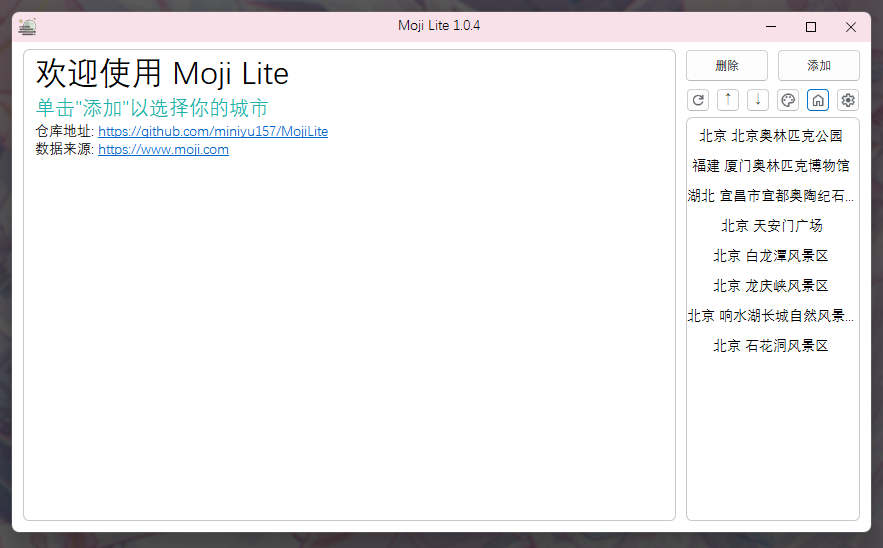
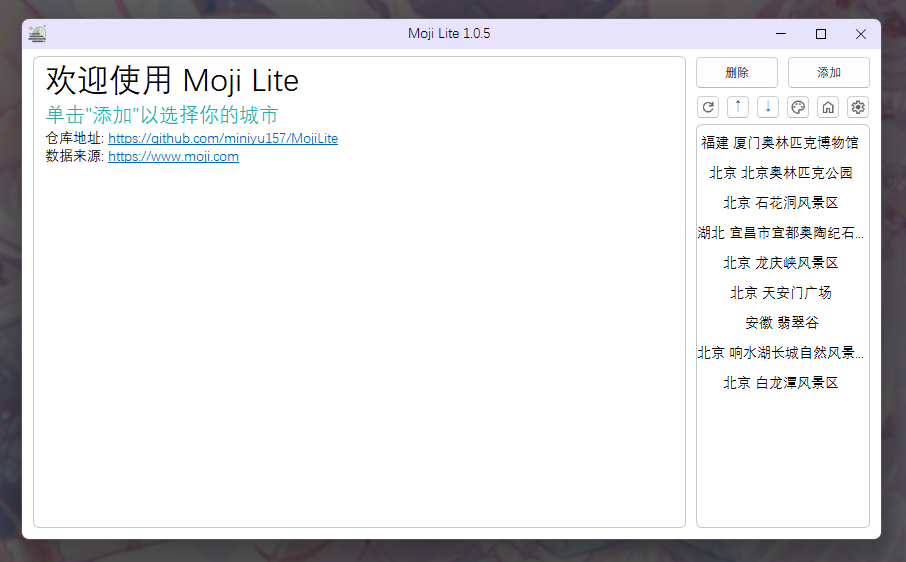
1.0.5 版本更新，详情请查看 CHANGELOG.md

Changed region(s): [[0.0, 0.0, 1.0, 1.0]]

diff --git a/Moji Lite/Setting.Designer.cs b/Moji Lite/Setting.Designer.cs
@@ -36,12 +36,19 @@ namespace Moji_Lite
             removeCacheLinkLabel = new LinkLabel();
             showVerLabel = new Label();
             githubLinkLabel = new LinkLabel();
+            panel1 = new Panel();
+            highlightToday_False_Radiu = new RadioButton();
+            highlightToday_True_Radiu = new RadioButton();
+            label2 = new Label();
+            panel2 = new Panel();
+            panel1.SuspendLayout();
+            panel2.SuspendLayout();
             SuspendLayout();
             // 
             // label1
             // 
             label1.AutoSize = true;
-            label1.Location = new Point(28, 49);
+            label1.Location = new Point(28, 51);
             label1.Name = "label1";
             label1.Size = new Size(79, 13);
             label1.TabIndex = 1;
@@ -50,7 +57,7 @@ namespace Moji_Lite
             // listLayout_Single_Radiu
             // 
             listLayout_Single_Radiu.AutoSize = true;
-            listLayout_Single_Radiu.Location = new Point(113, 47);
+            listLayout_Single_Radiu.Location = new Point(0, 0);
             listLayout_Single_Radiu.Name = "listLayout_Single_Radiu";
             listLayout_Single_Radiu.Size = new Size(49, 17);
             listLayout_Single_Radiu.TabIndex = 3;
@@ -61,7 +68,7 @@ namespace Moji_Lite
             // listLayout_Two_Radiu
             // 
             listLayout_Two_Radiu.AutoSize = true;
-            listLayout_Two_Radiu.Location = new Point(168, 47);
+            listLayout_Two_Radiu.Location = new Point(55, 0);
             listLayout_Two_Radiu.Name = "listLayout_Two_Radiu";
             listLayout_Two_Radiu.Size = new Size(49, 17);
             listLayout_Two_Radiu.TabIndex = 4;
@@ -104,17 +111,67 @@ namespace Moji_Lite
             githubLinkLabel.TabStop = true;
             githubLinkLabel.Text = "Github";
             // 
+            // panel1
+            // 
+            panel1.Controls.Add(highlightToday_False_Radiu);
+            panel1.Controls.Add(highlightToday_True_Radiu);
+            panel1.Location = new Point(113, 81);
+            panel1.Name = "panel1";
+            panel1.Size = new Size(198, 26);
+            panel1.TabIndex = 14;
+            // 
+            // highlightToday_False_Radiu
+            // 
+            highlightToday_False_Radiu.AutoSize = true;
+            highlightToday_False_Radiu.Location = new Point(55, 0);
+            highlightToday_False_Radiu.Name = "highlightToday_False_Radiu";
+            highlightToday_False_Radiu.Size = new Size(49, 17);
+            highlightToday_False_Radiu.TabIndex = 16;
+            highlightToday_False_Radiu.TabStop = true;
+            highlightToday_False_Radiu.Text = "不要";
+            highlightToday_False_Radiu.UseVisualStyleBackColor = true;
+            // 
+            // highlightToday_True_Radiu
+            // 
+            highlightToday_True_Radiu.AutoSize = true;
+            highlightToday_True_Radiu.Location = new Point(0, 0);
+            highlightToday_True_Radiu.Name = "highlightToday_True_Radiu";
+            highlightToday_True_Radiu.Size = new Size(49, 17);
+            highlightToday_True_Radiu.TabIndex = 15;
+            highlightToday_True_Radiu.TabStop = true;
+            highlightToday_True_Radiu.Text = "好的";
+            highlightToday_True_Radiu.UseVisualStyleBackColor = true;
+            // 
+            // label2
+            // 
+            label2.AutoSize = true;
+            label2.Location = new Point(28, 83);
+            label2.Name = "label2";
+            label2.Size = new Size(79, 13);
+            label2.TabIndex = 16;
+            label2.Text = "高亮当前日期";
+            // 
+            // panel2
+            // 
+            panel2.Controls.Add(listLayout_Single_Radiu);
+            panel2.Controls.Add(listLayout_Two_Radiu);
+            panel2.Location = new Point(113, 49);
+            panel2.Name = "panel2";
+            panel2.Size = new Size(198, 26);
+            panel2.TabIndex = 18;
+            // 
             // Setting
             // 
             AutoScaleDimensions = new SizeF(7F, 13F);
             AutoScaleMode = AutoScaleMode.Font;
             BackColor = Color.White;
             ClientSize = new Size(443, 380);
+            Controls.Add(panel2);
+            Controls.Add(label2);
+            Controls.Add(panel1);
             Controls.Add(githubLinkLabel);
             Controls.Add(showVerLabel);
             Controls.Add(removeCacheLinkLabel);
-            Controls.Add(listLayout_Two_Radiu);
-            Controls.Add(listLayout_Single_Radiu);
             Controls.Add(label1);
             Font = new Font("等线", 9F);
             Margin = new Padding(3, 2, 3, 2);
@@ -128,6 +185,11 @@ namespace Moji_Lite
             TitleButtons = TitleButtonStyle.CloseOnly;
             TitleFont = new Font("等线", 10.5F, FontStyle.Regular, GraphicsUnit.Point, 134);
             TitleTextAlign = HorizontalAlignment.Center;
+            TitleTextOffset = new Point(0, 1);
+            panel1.ResumeLayout(false);
+            panel1.PerformLayout();
+            panel2.ResumeLayout(false);
+            panel2.PerformLayout();
             ResumeLayout(false);
             PerformLayout();
         }
@@ -140,5 +202,10 @@ namespace Moji_Lite
         private LinkLabel removeCacheLinkLabel;
         private Label showVerLabel;
         private LinkLabel githubLinkLabel;
+        private Panel panel1;
+        private RadioButton highlightToday_False_Radiu;
+        private RadioButton highlightToday_True_Radiu;
+        private Label label2;
+        private Panel panel2;
     }
 }

diff --git a/Moji Lite/Setting.cs b/Moji Lite/Setting.cs
@@ -10,24 +10,43 @@ namespace Moji_Lite
         {
             InitializeComponent();
 
-            FormClosed += Setting_FormClosed;
-            removeCacheLinkLabel.LinkClicked += RemoveCacheLinkLabel_LinkClicked;
-            githubLinkLabel.LinkClicked += GithubLinkLabel_LinkClicked;
-
             mainWindow = parentForm;
             showVerLabel.Text = $"Version: {MainWindow.GetProductVersion()}";
 
-            switch (mainWindow.ListLayout)
-            {
-                case "two-column":
-                    listLayout_Two_Radiu.Checked = true;
-                    listLayout_Single_Radiu.Checked = false;
-                    break;
+            //功能事件
+            removeCacheLinkLabel.LinkClicked += RemoveCacheLinkLabel_LinkClicked;
+            githubLinkLabel.LinkClicked += GithubLinkLabel_LinkClicked;
 
-                case "single-column":
-                    listLayout_Two_Radiu.Checked = false;
-                    listLayout_Single_Radiu.Checked = true;
-                    break;
+            InitializeConfig(
+                listLayout_Two_Radiu,
+                listLayout_Single_Radiu,
+                "two-column",
+                "single-column",
+                mainWindow.ListLayout,
+                value => mainWindow.ListLayout = value
+            );
+
+            InitializeConfig(
+                highlightToday_True_Radiu,
+                highlightToday_False_Radiu,
+                "true",
+                "false",
+                mainWindow.HighlightToday,
+                value => mainWindow.HighlightToday = value
+            );
+        }
+
+        private void InitializeConfig(RadioButton trueRadio, RadioButton falseRadio, string trueValue, string falseValue, string? getValue, Action<string> setValue)
+        {
+            trueRadio.Checked = getValue == trueValue;
+            falseRadio.Checked = getValue == falseValue;
+            trueRadio.CheckedChanged += (sender, e) => RadioButton_CheckedChanged(trueRadio, trueValue, falseValue, setValue);
+            falseRadio.CheckedChanged += (sender, e) => RadioButton_CheckedChanged(trueRadio, trueValue, falseValue, setValue);
+
+            void RadioButton_CheckedChanged(RadioButton trueRadio, string trueValue, string falseValue, Action<string> setValue)
+            {
+                setValue(trueRadio.Checked ? trueValue : falseValue);
+                mainWindow.refreshBut.PerformClick();
             }
         }
 
@@ -47,11 +66,6 @@ namespace Moji_Lite
             }
 
             mainWindow.ShowMessage("清除缓存完成。", Application.ProductName);
-        }
-
-        private void Setting_FormClosed(object? sender, FormClosedEventArgs e)
-        {
-            mainWindow.ListLayout = listLayout_Single_Radiu.Checked ? "single-column" : "two-column";
         }
     }
 }

diff --git a/Moji Lite/AddCity.cs b/Moji Lite/AddCity.cs
@@ -36,32 +36,24 @@ namespace Moji_Lite
         {
             if (e.Index < 0) return;
 
-            //清除背景
             e.DrawBackground();
 
-            //设置绘制区域
             var itemText = citiesListBox.Items[e.Index].ToString();
             Font? font = e.Font;
             if (font != null)
             {
                 var textSize = e.Graphics.MeasureString(itemText, font);
+                var textPos = LayoutUtilities.CalculateAlignedPosition(e.Bounds, textSize, ContentAlignment.MiddleCenter);
 
-                //计算文本的居中位置
-                var textX = e.Bounds.X + (e.Bounds.Width - textSize.Width) / 2;
-                var textY = e.Bounds.Y + (e.Bounds.Height - textSize.Height) / 2;
-
-                //如果是选中项，设置背景色为蓝色，前景色为绿色
                 if ((e.State & DrawItemState.Selected) == DrawItemState.Selected)
                 {
-                    e.Graphics.FillRectangle(new SolidBrush(Color.FromArgb(220, 220, 220)), e.Bounds); //设置背景色
-                    e.Graphics.DrawString(itemText, font, Brushes.Black, textX, textY); //设置前景色
+                    e.Graphics.FillRectangle(new SolidBrush(Color.FromArgb(220, 220, 220)), e.Bounds);
+                    e.Graphics.DrawString(itemText, font, Brushes.Black, textPos.X, textPos.Y);
                 }
                 else
                 {
-                    e.Graphics.DrawString(itemText, font, Brushes.Black, textX, textY); //默认前景色
+                    e.Graphics.DrawString(itemText, font, Brushes.Black, textPos.X, textPos.Y);
                 }
-
-                //绘制焦点矩形（如果需要）
                 e.DrawFocusRectangle();
             }
         }

diff --git a/Moji Lite/MainWindow.Designer.cs b/Moji Lite/MainWindow.Designer.cs
@@ -198,6 +198,7 @@ namespace Moji_Lite
             TitleBoxBackColor = Color.Linen;
             TitleFont = new Font("等线", 10.5F, FontStyle.Regular, GraphicsUnit.Point, 134);
             TitleTextAlign = HorizontalAlignment.Center;
+            TitleTextOffset = new Point(0, 1);
             panel1.ResumeLayout(false);
             panel2.ResumeLayout(false);
             panel3.ResumeLayout(false);
@@ -216,7 +217,7 @@ namespace Moji_Lite
         internal Button upItemBut;
         private Panel panel3;
         private Button themeBut;
-        private Button refreshBut;
+        internal Button refreshBut;
         private Button homeBut;
         private Button settingBut;
     }

diff --git a/README.md b/README.md
@@ -23,3 +23,5 @@
 ![weather](Screenshot/weather.png)
 
 ![addcity](Screenshot/addcity.png)
+
+![setting](Screenshot/setting.png)
